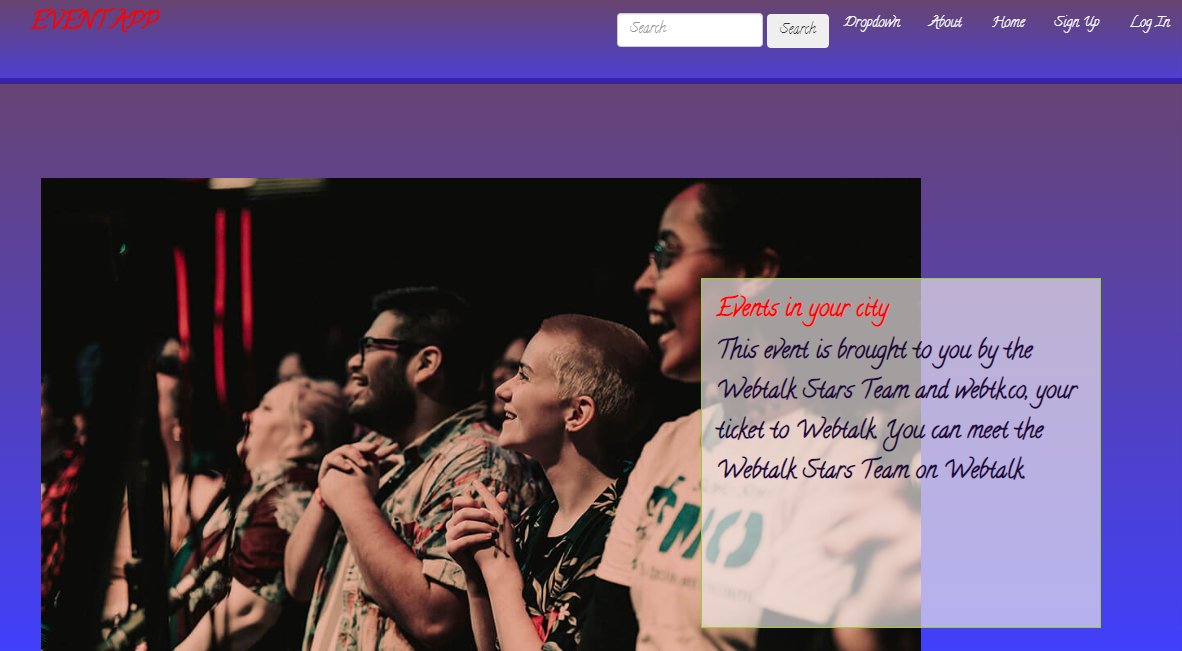
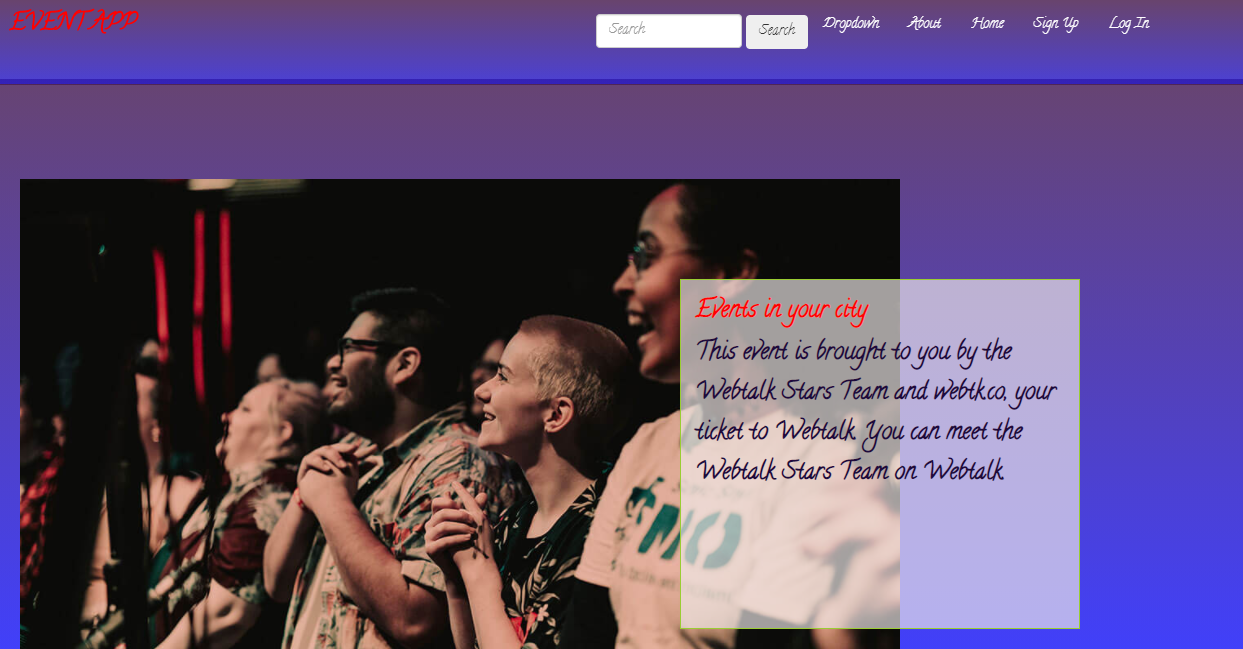
finish styling the portfolio section and add responsive images

diff --git a/index.html b/index.html
@@ -47,7 +47,7 @@
                   <a class="nav-link" href="#contact">Contact</a>
                 </li>
                 <li class="nav-item resume-btn">
-                  <a class="btn" href="#" role="button">Get My Resume</a>
+                  <a class="btn" href="https://docs.google.com/document/d/1leD7RvddxF8AitI6MSkFBbaablXvISxgx2G3PPsrcSY/edit?usp=sharing" role="button">Get My Resume</a>
                 </li>
               </ul>
             </div>
@@ -91,14 +91,18 @@
         <span>My Recent works</span>
         <div class="row mb-3">
           <div class=" col-lg-7 col-md-12 col-sm-12">
-            <img src="/images/pictocode.png" class="img-fluid" alt="project-pic">
+            <picture>
+              <img
+                src="https://res.cloudinary.com/eela4/image/upload/w_1000,ar_16:9,c_fill,g_auto,e_sharpen/v1602070267/Screenshot_257_tzrgra.png"
+                class="img-fluid" alt="project-pic">
+            </picture>
           </div>
           <div class="col-lg-5 col-md-12 col-sm-12">
             <h4>Pic To Code</h4>
             <p>
-              A revolutionary app build with Axios.js that lets a user upload a picture of code written by hand 
+              A revolutionary app build with Axios.js that lets a user upload a picture of code written by hand
               and converts it to text that can be copied to a clipboard or text editor;
-              no accounts or sign-ups required. 
+              no accounts or sign-ups required.
             </p>
             <div class="proj-btn">
               <button type="button" class="btn btn-outline-secondary btn-sm">JavaScript</button>
@@ -107,76 +111,92 @@
               <button type="button" class="btn btn-outline-secondary btn-sm">Netlify</button>
             </div>
             <div class="source-btn">
-              <a class="btn" href="https://github.com/Elukoye/PicToCode" target="_blank" role="button">Live Demo</a>
+              <a class="btn" href="https://adoring-meitner-cafe65.netlify.app/" target="_blank" role="button">Live
+                Demo</a>
+            </div>
+          </div>
+        </div>
+        <!-- 2 -->
+        <div class="row mb-3">
+          <div class=" col-lg-7 col-md-12 col-sm-12 mt-4">
+            <picture>
+              <img
+                src="/images/goals_app.png"
+                class="img-fluid" alt="project-pic">
+            </picture>
+          </div>
+          <div class="col-lg-5 col-md-12 col-sm-12 mt-4">
+            <h4>Goals App</h4>
+            <p>
+              A Rails productivity management tool that lets a user create categories and
+              projects and keep track of the number of projects created.
+            </p>
+            <div class="proj-btn">
+              <button type="button" class="btn  btn-sm">Rails</button>
+              <button type="button" class="btn  btn-sm">RSpec</button>
+              <button type="button" class="btn  btn-sm">Bootstrap</button>
+              <button type="button" class="btn  btn-sm">Heroku</button>
+            </div>
+            <div class="source-btn">
+              <a class="btn" href="https://secret-sierra-04969.herokuapp.com/" target="_blank" role="button">Live
+                Demo</a>
             </div>
 
           </div>
         </div>
-        <div class="row row-cols-1 row-cols-md-3">
-          <div class="col mb-4 ">
-            <div class="card">
-              <img src="/images/goals_app.png" class="card-img-top img-fluid" alt="goals_app">
-              <div class="card-body ">
-                <h5 class="card-title">Goals App</h5>
-                <p class="card-text ">
-                 A  Ruby on Rails productivity management tool that lets a user create categories and 
-                 projects and keep track of the number of projects created.
-                </p>
-              </div>
-              <div class="mb-2 grp-btn">
-                <button type="button" class="btn  btn-sm">Rails</button>
-                <button type="button" class="btn  btn-sm">RSpec</button>
-                <button type="button" class="btn  btn-sm">Bootstrap</button>
-                <button type="button" class="btn  btn-sm">Heroku</button>
-              </div>
-            </div>
-            <a href="https://github.com/Elukoye/goals_app" class="card-link" target="_blank">
-              <button type="button" class="btn  btn-lg btn-block">Live Demo</button>
-            </a>
+        <!-- 3 -->
+        <div class="row mb-3 ">
+          <div class=" col-lg-7 col-md-12 col-sm-12 mt-4">
+            <picture>
+              <img
+                src="/images/private.png"
+                class="img-fluid" alt="project-pic">
+            </picture>
           </div>
-          <div class="col mb-4">
-            <div class="card">
-              <img src="/images/private.png" class="card-img-top img-fluid" alt="private_app">
-              <div class="card-body">
-                <h5 class="card-title">Private Events</h5>
-                <p class="card-text"> An Event scheduling app that lets a user create events,
-                  manage invites,follow other event organizers and attend events posted by other users.
-                </p>
-              </div>
-
-              <div class=" mb-2 grp-btn">
-                <button type="button" class="btn  btn-sm">Rails</button>
-                <button type="button" class="btn  btn-sm">PostgreSQL</button>
-                <button type="button" class="btn  btn-sm">RSpec</button>
-                <button type="button" class="btn  btn-sm">Heroku</button>
-              </div>
+          <div class="col-lg-5 col-md-12 col-sm-12 mt-4">
+            <h4>Private Events</h4>
+            <p>
+              An Event scheduling app  that lets a user create events,
+              manage invites,follow other event organizers and attend events posted by other users.
+            </p>
+            <div class="proj-btn">
+              <button type="button" class="btn  btn-sm">Rails</button>
+              <button type="button" class="btn  btn-sm">PostgreSQL</button>
+              <button type="button" class="btn  btn-sm">RSpec</button>
             </div>
-            <a href="https://github.com/Elukoye/Associations" class="card-link" target="_blank">
-              <button type="button" class="btn  btn-lg btn-block">Live Demo</button>
-            </a>
+            <div class="source-btn">
+              <a class="btn" href="https://warm-sea-24354.herokuapp.com/" target="_blank" role="button">Live
+                Demo</a>
+            </div>
           </div>
-
-          <div class="col mb-4">
-            <div class="card ">
-              <img src="/images/search_n_build.png" class="card-img-top img-fluid" alt="api_app">
-              <div class="card-body">
-                <h5 class="card-title">Search&Build API</h5>
-                <p class="card-text"> A Ruby on Rails API that can be used to create a tutorials dashboard to
-                  let users selected and book a date for when they would like to do it.
-                </p>
-              </div>
-              <div class="mb-2 grp-btn">
-                <button type="button" class="btn  btn-sm">Rails</button>
+        </div>
+        <!-- 4 -->
+        <div class="row mb-3  ">
+          <div class=" col-lg-7 col-md-12 col-sm-12 mt-4">
+            <picture>
+              <img
+                src="/images/rails_api.png"
+                class="img-fluid" alt="project-pic">
+            </picture>
+          </div>
+          <div class="col-lg-5 col-md-12 col-sm-12 mt-4">
+            <h4>Search&Build API</h4>
+            <p>
+              A Ruby on Rails API that provides tutorials data to a client.It 
+              lets users select tutorials and book a time slot for when they would like to do it.
+            </p>
+            <div class="proj-btn">
+              <button type="button" class="btn  btn-sm">Rails</button>
                 <button type="button" class="btn  btn-sm">Postman</button>
                 <button type="button" class="btn  btn-sm">RSpec</button>
                 <button type="button" class="btn  btn-sm">PostgreSQL</button>
-              </div>
             </div>
-            <a href="https://github.com/Elukoye/search_n_build" class="card-link" target="_blank">
-              <button type="button" class="btn  btn-lg btn-block">Live Demo</button>
-            </a>
+            <div class="source-btn">
+              <a class="btn" href="https://documenter.getpostman.com/view/11639084/T17Dg8ox" target="_blank" role="button">Live
+                Demo</a>
+            </div>
           </div>
-        </div>
+        </div>       
       </div>
     </section>
     <!-- about me -->

diff --git a/stylesheet.css b/stylesheet.css
@@ -121,11 +121,10 @@ margin: 0px 24px;
   letter-spacing: 0.01em;
 }
 .portfolio img{
-  width: 684px;
-  height: 448px;
-  left: 0px;
-  top: 0px;
+  max-width: 100%;
+  height: auto;
 }
+
 .proj-btn{
   display: flex;
   flex-direction: row;
@@ -150,20 +149,15 @@ margin: 0px 24px;
   border: 1px solid #8993A4;
   box-sizing: border-box;
 }
-.card{
+
+.proj-body{
   background: linear-gradient(179.4deg,
    rgba(38, 38, 38, 0) 0.81%,
-   rgba(38, 38, 38, 0.9) 84.03%)
+   rgba(38, 38, 38, 0.9) 84.03%);
+  padding: 0.5rem;
 }
-.card img{
-  height: 435px;
-  width: 369px;
-  left: 0px;
-  top: 0px;
-  border-radius: 0px;
-  
-}
-.card-body p {
+
+.proj-body p {
   color: #fff;
   font-family: 'Inter',sans-serif;
   font-weight:300;
@@ -175,11 +169,13 @@ margin: 0px 24px;
   align-self: center;
   flex-grow: 0;
   margin: 0px 24px;
+  padding: 0.7rem;
+
 }
-.card-body h5{
-  color: #fff;
+.proj-body h5{
+  color: #091E42;
   font-family: 'crete round',sans-serif;
-  font-weight:400;
+  font-weight:bolder;
   font-style:normal;
   font-size:28px ;
   line-height: 44px;
